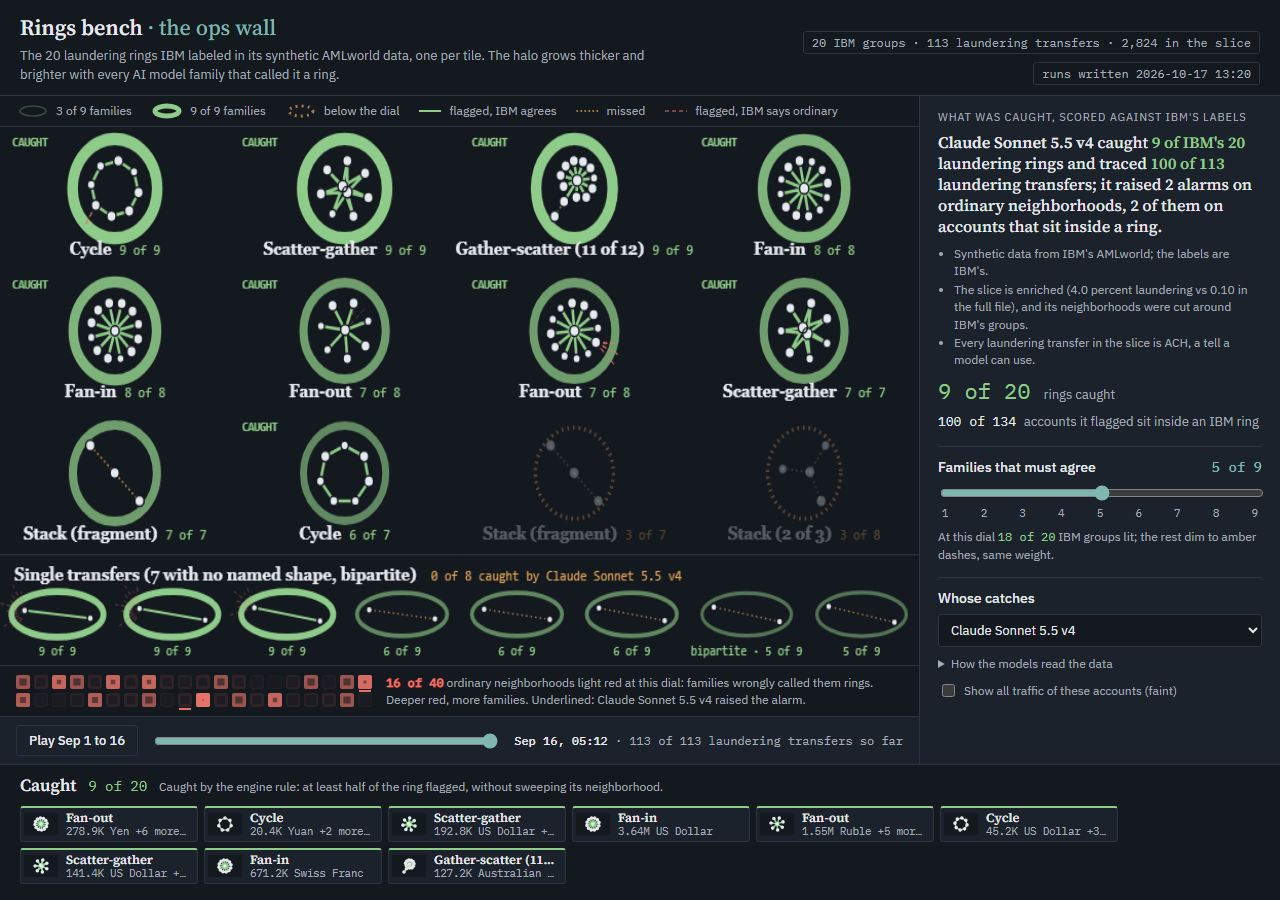
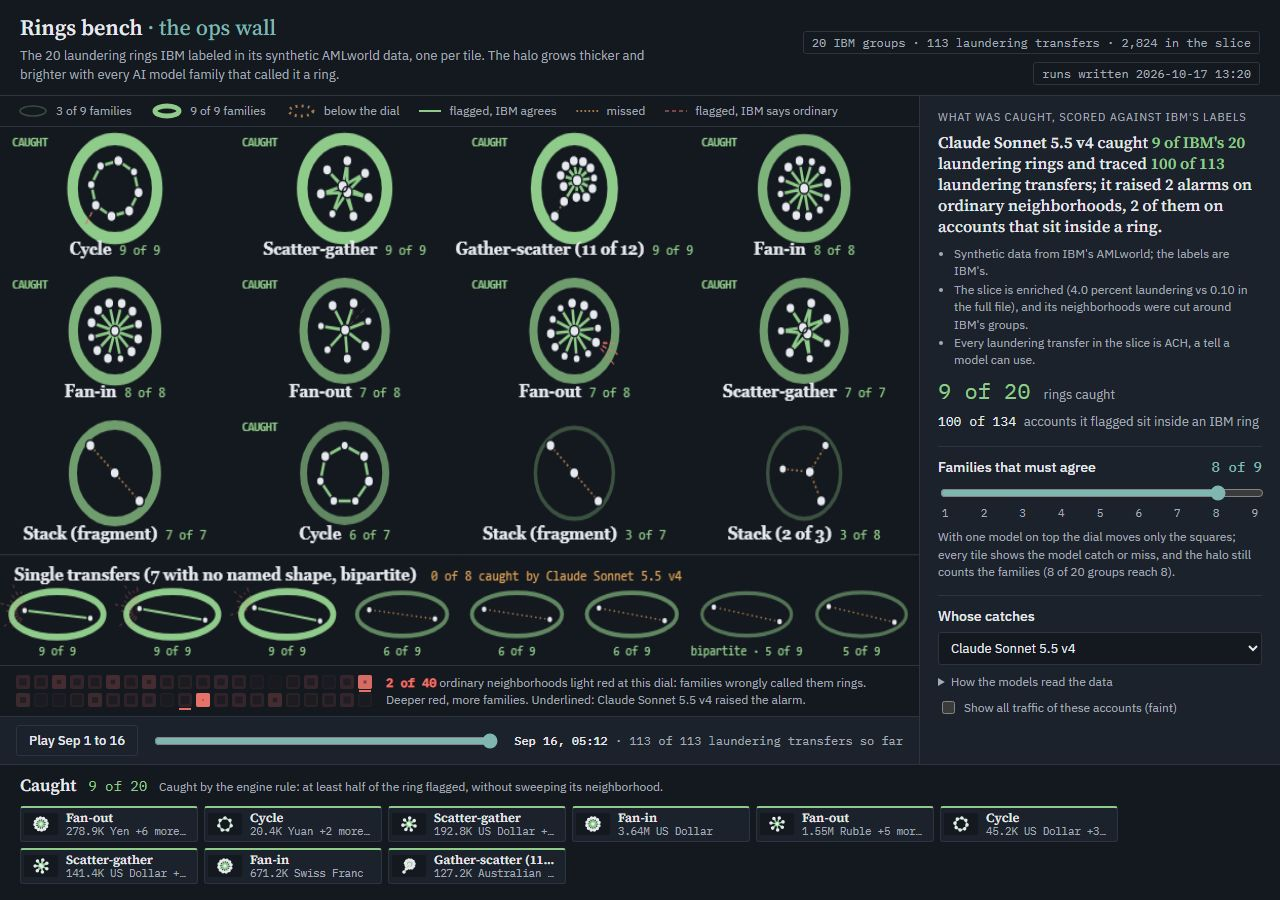
Ops wall: dial dims only in the vote view

diff --git a/rings_bench/ui/variants/opswall2d/opswall.js b/rings_bench/ui/variants/opswall2d/opswall.js
@@ -461,12 +461,12 @@ function renderHeadline() {
 
 /* ---------- controls ---------- */
 function setVotes(animate) {
-  CELLS.forEach(c => { const u = c.unit ? AG[ST.ver][c.unit] : null; c.votes = u ? u.ring_votes : 0; c.of = u ? u.families : 0; c.said = u ? (u.said_ring || []) : []; c.from = c.litT; c.to = c.votes >= ST.k && c.votes > 0 ? 1 : 0; });
+  CELLS.forEach(c => { const u = c.unit ? AG[ST.ver][c.unit] : null; c.votes = u ? u.ring_votes : 0; c.of = u ? u.families : 0; c.said = u ? (u.said_ring || []) : []; c.from = c.litT; c.pass = c.votes >= ST.k && c.votes > 0; /* the dial acts on the tiles only in the combined-vote view; with one model on top every tile shows at full strength */ c.to = ST.pick !== 'panel' || c.pass ? 1 : 0; });
   ORD.forEach(o => { const u = AG[ST.ver][o.unit]; o.votes = u ? u.ring_votes : 0; o.of = u ? u.families : 0; o.said = u ? (u.said_ring || []) : []; });
   if (animate && !reduced()) { DIAL.t0 = performance.now(); DIAL.on = true; settleAfter(DIAL.dur + 40); } else CELLS.forEach(c => { c.litT = c.to; });
-  const lr = CELLS.filter(c => c.to).length;
+  const lr = CELLS.filter(c => c.pass).length;
   $('#dialVal').textContent = ST.k + ' of ' + ST.n;
-  $('#dialNote').innerHTML = 'At this dial <span class="mono" style="color:var(--ok)">' + lr + ' of ' + NR + '</span> IBM groups lit; the rest dim to amber dashes, same weight.';
+  $('#dialNote').innerHTML = ST.pick === 'panel' ? 'At this dial <span class="mono" style="color:var(--ok)">' + lr + ' of ' + NR + '</span> IBM groups lit; the rest dim to amber dashes, same weight.' : 'With one model on top the dial moves only the squares; every tile shows the model catch or miss, and the halo still counts the families (' + lr + ' of ' + NR + ' groups reach ' + ST.k + ').';
   requestDraw();
 }
 function select(reset) {
@@ -488,7 +488,7 @@ function renderPicker() {
   if (![...ms.options].some(o => o.value === ST.pick)) ST.pick = 'panel'; ms.value = ST.pick;
 }
 $('#dial').addEventListener('input', e => { ST.k = +e.target.value; setVotes(true); if (ST.pick === 'panel') select(false); else paintOrd(); });
-$('#model').addEventListener('change', e => { ST.pick = e.target.value; select(true); });
+$('#model').addEventListener('change', e => { ST.pick = e.target.value; setVotes(true); select(true); });
 $('#traffic').addEventListener('change', e => { TRAF.from = ST.traffic; ST.trafficTo = e.target.checked ? 1 : 0; TRAF.t0 = performance.now(); TRAF.on = true; settleAfter(290); requestDraw(); });
 
 /* ten-day scrub: transfers appear in the order they happened */

diff --git a/rings_bench/ui/variants/opswall2d/README.md b/rings_bench/ui/variants/opswall2d/README.md
@@ -10,7 +10,7 @@ IBM's 20 labeled rings are the only thing on the wall: twelve shapes get a tile 
 
 - **Twelve ring tiles** (4 by 3), ordered by how many families agreed. Each tile holds only that ring's accounts (clear dots with a dark rim) and its labeled transfers (lines in the catch color), drawn 70 to 120 px across at 1280, inside an outline ring (the halo). One line under it: IBM's pattern name and "n of 9". A CAUGHT tag marks the rings the current choice caught.
 - **One shared tile for the eight single transfers**: "Single transfers (7 with no named shape, bipartite): k of 8 caught at this dial", with eight small marks, each with its own halo and "n of 9". Hover shows how many of the eight each family caught.
-- **The dial on the tiles themselves**: a ring below the dial dims to a third (shape, label and all) and its halo turns to amber dashes of the same weight. The halo weight never changes with the dial: 1.15 px per family (3 of 9 is thin and dim, 9 of 9 is thick and bright).
+- **The dial on the tiles themselves (combined-vote view only)**: with one model on top, the dial dims no tile; each tile shows that model's catch or miss at full strength, the halo still carries the families count, and the dial moves only the squares. In the combined-vote view, a ring below the dial dims to a third (shape, label and all) and its halo turns to amber dashes of the same weight. The halo weight never changes with the dial: 1.15 px per family (3 of 9 is thin and dim, 9 of 9 is thick and bright).
 - **Key strip** above the grid, in the first frame.
 - **40 squares** for the ordinary neighborhoods, red as families wrongly call them rings (same weight rule), dimmed below the dial, with a one-line caption. With one model on top, its own false alarms are underlined.
 - **Rail**: the headline (what was caught first), three honest lines (synthetic data and IBM's labels; the slice is enriched, 4.0 percent vs 0.10, and cut around IBM's groups; every laundering transfer is ACH, a tell), the closing number, the dial, and "Whose catches": the families' combined vote (default) or any model and version in bench_results.js, Claude Sonnet 5.5 v4 first. For one model the closing block adds its `account_level` figure ("100 of 134 accounts it flagged sit inside an IBM ring" for Sonnet v4). The v1/v2 choice for the halos is folded under the picker. "Show all traffic" fades in each ring account's other transfers at 10 percent.
@@ -59,5 +59,5 @@ I watched frames, not the motion by eye in a headed window. Ease and feel at pro
 ## Screenshots (1280 x 900)
 
 - `shot_1280.jpg`: the opener, the combined vote at 5 of 9 (12 of 20 caught).
-- `shot_1280_sonnet_v4.jpg`: Claude Sonnet 5.5 v4 on top, at 5 of 9.
+- `shot_1280_sonnet_v4.jpg`: Claude Sonnet 5.5 v4 on top with the dial at 8 of 9; no tile dims.
 - `shot_1280_catch_flight.jpg`: real-time frame 450 ms after switching to Sonnet v4 at 8 of 9, with copies in flight.
